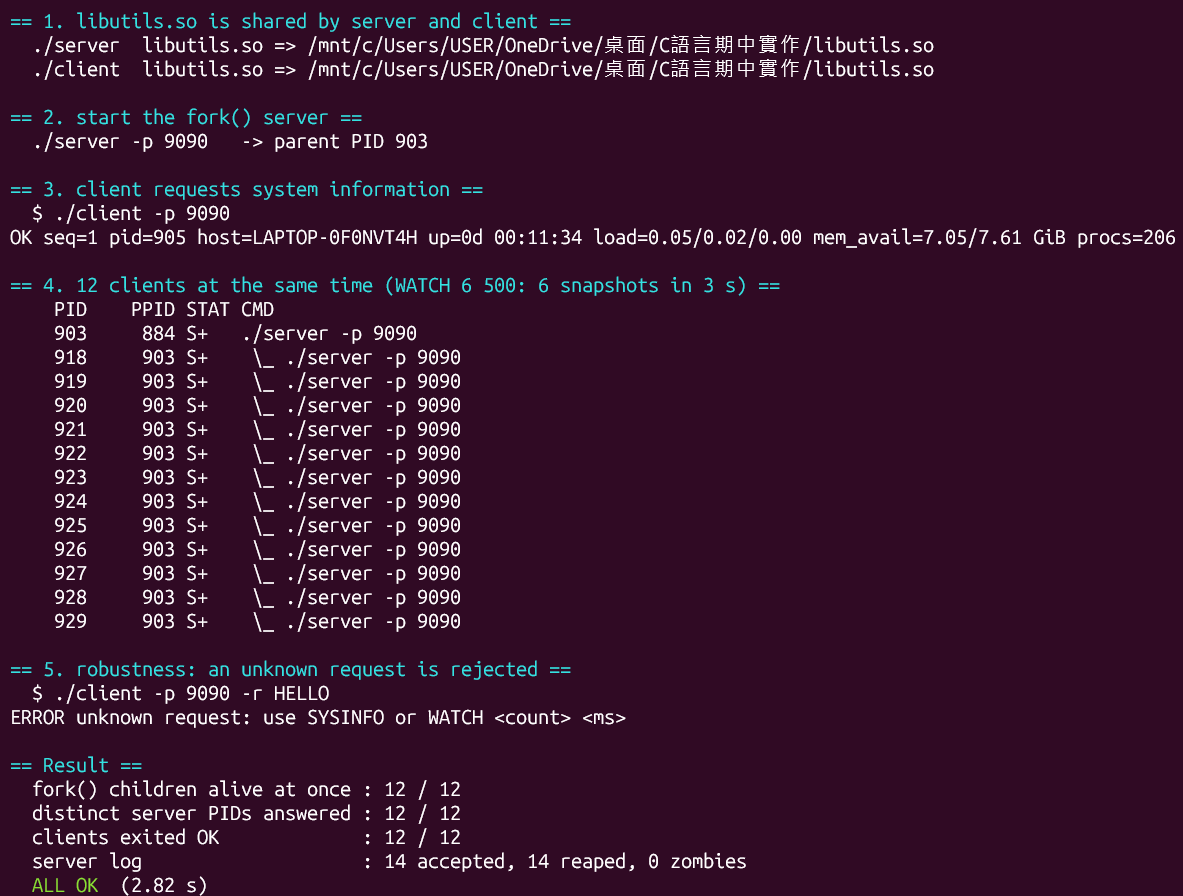
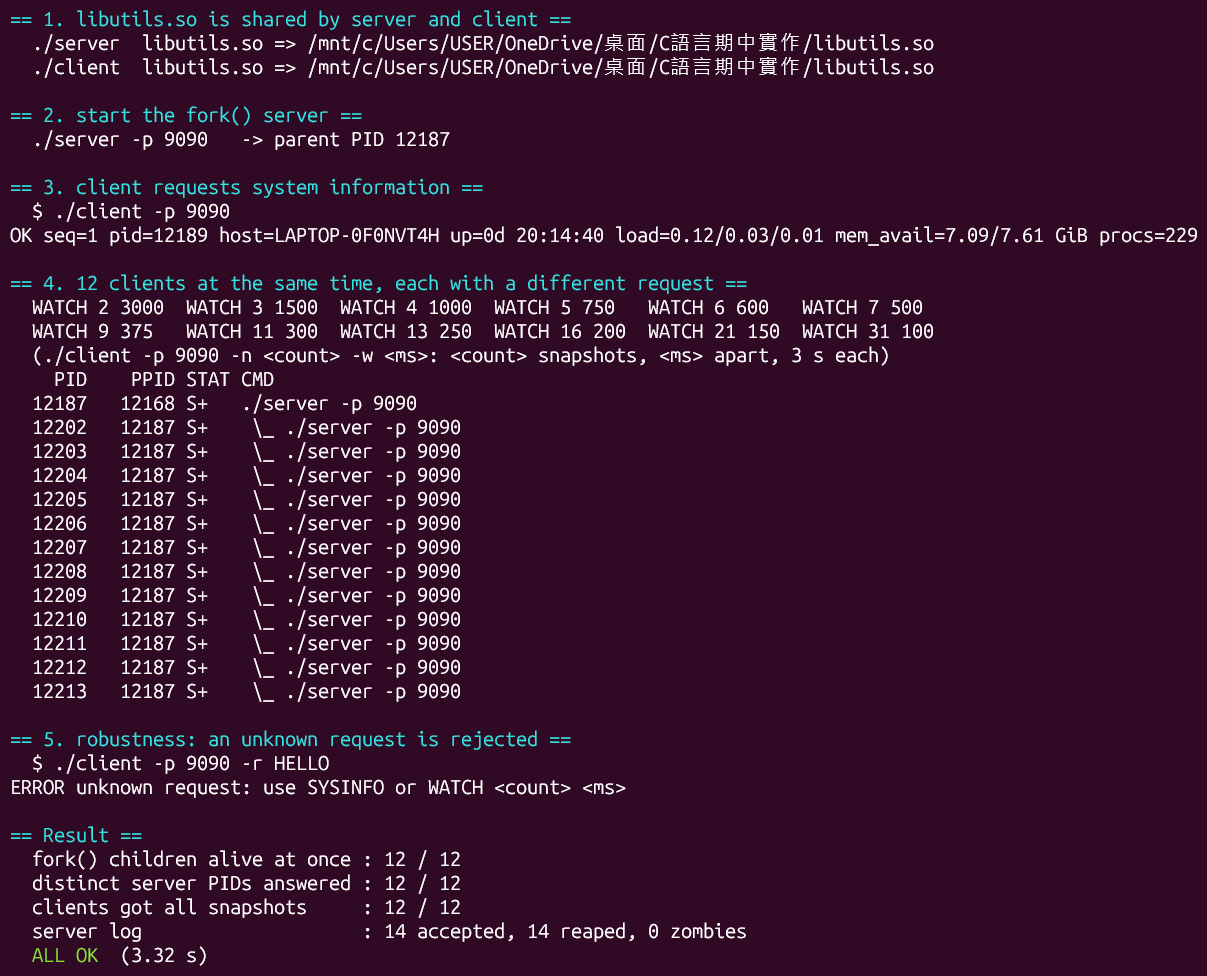
Give the 12 concurrent clients 12 different requests
test_concurrent and make demo now send a different WATCH request from
each client (WATCH 2 3000 ... WATCH 31 100, kept in testlib). Every one
lasts 3 s, so all 12 clients are still connected when ps runs. Each
client's snapshot count is checked against its own request, and the
test log lists the request every client sent and every child received.

Regenerate logs/test_concurrent.log, retake screenshot 02 and update
README and docs/screenshots.md to match.

diff --git a/tests/test_concurrent.c b/tests/test_concurrent.c
@@ -2,8 +2,9 @@
  * test_concurrent.c - proof that the fork() server serves 12 clients at once.
  *
  *   1. start ./server
- *   2. launch 12 ./client processes at the same moment; each asks for
- *      WATCH 6 500, so it stays connected for about 3 seconds
+ *   2. launch 12 ./client processes at the same moment, each with a
+ *      different request (WATCH 2 3000 ... WATCH 31 100, tl_watches in
+ *      testlib.c); every one stays connected for 3 seconds
  *   3. while all are connected: ps aux snapshot, process tree (PPID) and the
  *      established TCP connections
  *   4. cross-check: the server child PID in each client's replies must be one
@@ -22,8 +23,6 @@
 #include <string.h>
 
 #define MAX_CLIENTS 256
-#define SNAPSHOTS   "6"
-#define INTERVAL_MS "500"
 #define PS_ROW "^([^[:space:]]+[[:space:]]+){10}"
 
 static int run(int clients, const char *tmp)
@@ -42,8 +41,8 @@ static int run(int clients, const char *tmp)
     printf("date     : %s\n", tl_date());
     printf("kernel   : %s\n", tl_kernel());
     printf("compiler : %s\n", tl_compiler());
-    printf("test     : %d concurrent clients, each asks for WATCH %s %s (about 3 s)\n",
-           clients, SNAPSHOTS, INTERVAL_MS);
+    printf("test     : %d concurrent clients, each sends a different WATCH request (3 s each)\n",
+           clients);
 
     tl_heading("Build (make)");
     if (tl_run(NULL, CMD("make", "-s", "all")) != 0)
@@ -62,11 +61,17 @@ static int run(int clients, const char *tmp)
 
     tl_heading("Launch %d clients at the same moment", clients);
     for (i = 0; i < clients; i++) {
+        const struct tl_watch *w = &tl_watches[i % TL_NWATCH];
+
         pids[i] = tl_spawn(tl_fmt("%s/client_%0*d.txt", tmp, width, i + 1),
-                           CMD("./client", "-p", tl_port_str, "-n", SNAPSHOTS, "-w", INTERVAL_MS));
+                           CMD("./client", "-p", tl_port_str, "-n", w->count, "-w", w->ms));
     }
-    printf("$ ./client -p %d -n %s -w %s   x %d (background)\n",
-           tl_port, SNAPSHOTS, INTERVAL_MS, clients);
+    for (i = 0; i < clients; i++) {
+        const struct tl_watch *w = &tl_watches[i % TL_NWATCH];
+
+        printf("$ %-30s (client %0*d, background)\n",
+               tl_fmt("./client -p %d -n %s -w %s", tl_port, w->count, w->ms), width, i + 1);
+    }
     fputs("client PIDs:", stdout);
     for (i = 0; i < clients; i++)
         printf(" %d", (int)pids[i]);
@@ -94,14 +99,15 @@ static int run(int clients, const char *tmp)
     }
     tl_write(client_log, "", 0);
     for (i = 0; i < clients; i++) {
+        const struct tl_watch *w = &tl_watches[i % TL_NWATCH];
         const char *file = tl_fmt("%s/client_%0*d.txt", tmp, width, i + 1);
         char *text = tl_read(file);
         int lines = tl_count(text, "^OK seq=");
         char *pid = tl_match(text, "pid=[0-9]+");
 
-        printf("[client %0*d] %d snapshot(s), served by %s\n", width, i + 1, lines,
-               pid ? pid : "?");
-        if (lines == atoi(SNAPSHOTS))
+        printf("[client %0*d] %-13s -> %2d snapshot(s), served by %s\n", width, i + 1,
+               tl_fmt("WATCH %s %s", w->count, w->ms), lines, pid ? pid : "?");
+        if (lines == atoi(w->count))
             full++;
         tl_append_prefixed(file, tl_fmt("[client %0*d] ", width, i + 1), client_log);
     }
@@ -121,8 +127,8 @@ static int run(int clients, const char *tmp)
     reaped = tl_file_count(server_log, "reaped child");
     active_max = tl_match(tl_read(server_log), tl_fmt("accepted .*active=%d$", clients));
 
-    tl_heading("Server log (accept and reap)");
-    tl_print_lines(tl_grep(tl_read(server_log), "accepted|reaped", 0), "", 0);
+    tl_heading("Server log (accept, request and reap)");
+    tl_print_lines(tl_grep(tl_read(server_log), "accepted|snapshot\\(s\\)$|reaped", 0), "", 0);
     printf("after the clients left: %d child process(es), %d zombie(s)\n", left, zombies);
 
     tl_heading("Stop server (SIGTERM)");
@@ -137,8 +143,8 @@ static int run(int clients, const char *tmp)
               clients, clients + 1);
     tl_expect(established == clients, "%d established TCP connections at the same time", clients);
     tl_expect(active_max != NULL, "server log reaches active=%d", clients);
-    tl_expect(ok == clients && full == clients, "all %d clients got %s snapshots and exited 0",
-              clients, SNAPSHOTS);
+    tl_expect(ok == clients && full == clients,
+              "all %d clients got the number of snapshots they asked for and exited 0", clients);
     tl_expect(ndistinct == clients, "clients were answered by %d distinct server PIDs", clients);
     tl_expect(unknown == 0, "every answering PID is a child seen in the ps snapshot");
     tl_expect(zombies + left == 0, "no zombie or leftover children after the clients left");

diff --git a/tests/demo.c b/tests/demo.c
@@ -6,7 +6,8 @@
  *   1. both binaries are linked against libutils.so
  *   2. start the fork() server in the background
  *   3. one client requests system information (SYSINFO)
- *   4. CLIENTS clients connect at the same time -> CLIENTS fork()ed children
+ *   4. CLIENTS clients connect at the same time -> CLIENTS fork()ed children;
+ *      each client sends a different WATCH request (tl_watches in testlib.c)
  *   5. robustness: an unknown request is rejected with an ERROR line
  *   6. stop the server; every child was reaped (no zombies)
  *
@@ -20,6 +21,7 @@
 #include <unistd.h>
 
 #define MAX_CLIENTS 256
+#define PER_ROW     6           /* requests printed per line in step 4 */
 
 static const char *B = "";
 static const char *G = "";
@@ -68,19 +70,35 @@ static int run(void)
     printf("  $ ./client -p %d\n", tl_port);
     fputs(tl_capture_out(CMD("./client", "-p", tl_port_str)), stdout);
 
-    printf("\n%s== 4. %d clients at the same time (WATCH 6 500: 6 snapshots in 3 s) ==%s\n",
+    printf("\n%s== 4. %d clients at the same time, each with a different request ==%s\n",
            B, clients, N);
     for (i = 0; i < clients; i++) {
+        const struct tl_watch *w = &tl_watches[i % TL_NWATCH];
+
         pids[i] = tl_spawn(tl_fmt("%s/client_%d", g_tmp, i + 1),
-                           CMD("./client", "-p", tl_port_str, "-n", "6", "-w", "500"));
+                           CMD("./client", "-p", tl_port_str, "-n", w->count, "-w", w->ms));
     }
+    for (i = 0; i < clients; i++) {
+        const struct tl_watch *w = &tl_watches[i % TL_NWATCH];
+
+        printf("%s%-14s%s", i % PER_ROW ? "" : "  ", tl_fmt("WATCH %s %s", w->count, w->ms),
+               i % PER_ROW == PER_ROW - 1 || i == clients - 1 ? "\n" : "");
+    }
+    printf("  (./client -p %d -n <count> -w <ms>: <count> snapshots, <ms> apart, 3 s each)\n",
+           tl_port);
     for (i = 0; i < 100 && tl_child_count() < clients; i++)
         tl_sleep(0.02);
     tl_run(NULL, CMD("ps", "--forest", "-o", "pid,ppid,stat,cmd", "-p", server_pid,
                      "--ppid", server_pid));
     nchild = tl_child_count();
     for (i = 0; i < clients; i++) {
-        if (tl_wait(pids[i]) == 0)
+        char *text;
+
+        if (tl_wait(pids[i]) != 0)
+            continue;
+        /* OK only if the client got as many snapshots as it asked for */
+        text = tl_read(tl_fmt("%s/client_%d", g_tmp, i + 1));
+        if (tl_count(text, "^OK seq=") == atoi(tl_watches[i % TL_NWATCH].count))
             ok++;
     }
     for (i = 0; i < clients; i++)
@@ -101,7 +119,7 @@ static int run(void)
     step("Result");
     printf("  fork() children alive at once : %d / %d\n", nchild, clients);
     printf("  distinct server PIDs answered : %d / %d\n", ndistinct, clients);
-    printf("  clients exited OK             : %d / %d\n", ok, clients);
+    printf("  clients got all snapshots     : %d / %d\n", ok, clients);
     printf("  server log                    : %d accepted, %d reaped, %d zombies\n",
            accepted, reaped, zombies);
     if (nchild == clients && ndistinct == clients && ok == clients && zombies == 0 &&

diff --git a/tests/testlib.h b/tests/testlib.h
@@ -58,6 +58,18 @@ char *tl_capture_out(const char *const argv[]);     /* stdout only */
 int tl_start_server(const char *dir, const char *log, const char *const flags[]);
 void tl_stop_server(void);
 
+/*
+ * The 12 different requests of make demo and test_concurrent: client i sends
+ * WATCH <count> <ms> from tl_watches[i % TL_NWATCH]. Every one lasts
+ * (count - 1) x ms = 3 s, so all clients are connected at the same time.
+ */
+#define TL_NWATCH 12
+struct tl_watch {
+    const char *count;          /* ./client -n: number of snapshots */
+    const char *ms;             /* ./client -w: milliseconds between them */
+};
+extern const struct tl_watch tl_watches[TL_NWATCH];
+
 /* /proc */
 int tl_port_in_use(int port);
 int tl_established(int port);

diff --git a/tests/testlib.c b/tests/testlib.c
@@ -30,6 +30,12 @@ int tl_port;
 char tl_port_str[16];
 pid_t tl_server_pid;
 
+const struct tl_watch tl_watches[TL_NWATCH] = {
+    { "2",  "3000" }, { "3",  "1500" }, { "4",  "1000" }, { "5",  "750" },
+    { "6",  "600"  }, { "7",  "500"  }, { "9",  "375"  }, { "11", "300" },
+    { "13", "250"  }, { "16", "200"  }, { "21", "150"  }, { "31", "100" },
+};
+
 static pid_t g_tee_pid;
 
 void tl_die(const char *fmt, ...)

diff --git a/README.md b/README.md
@@ -24,7 +24,7 @@ Client 連到 server，用一行文字請求查詢主機的即時系統資訊：
 | 期中規定 | 本專案的做法 |
 |---|---|
 | Server 用 `fork()` 處理連線，不可用 thread | parent 只負責 `accept()`，每個連線 fork 一個 child；整個專案沒有使用 thread |
-| 至少同時處理 10 個 client，並提供執行期證明 | `tests/test_concurrent.c` 讓 12 個 client 同時連線，用 `ps aux` 和 `ps --forest` 證明 12 個子進程同時存在 |
+| 至少同時處理 10 個 client，並提供執行期證明 | `tests/test_concurrent.c` 讓 12 個 client 同時連線、各送出不同的 `WATCH` 請求，用 `ps aux` 和 `ps --forest` 證明 12 個子進程同時存在 |
 | 封包擷取與分析 | `tests/test_capture.c` 用 tcpdump 抓 loopback，讀回 pcap 檔，逐包列出三向交握、請求、回應、FIN，並把請求封包拆成 Ethernet、IPv4、TCP 標頭逐欄說明 |
 | 雙層 Debug | 編譯期 `-DENABLE_DEBUG`（關閉時巨集展開成 `((void)0)`），加上執行期 `-d 0/1/2` |
 | 共用函式封裝成 `.so`，兩邊都連結 | logger、`write_all`／`read_line`、系統資訊擷取都在 `libutils.so`，server 和 client 都以 `-lutils` 動態連結 |
@@ -105,7 +105,7 @@ gcc -Wall -Wextra -pedantic -std=gnu11 -O2 -g -DENABLE_DEBUG -o client client.c 
 |---|---|
 | `make`、`make all` | debug 版（`DEBUG=1`，預設） |
 | `make release` | release 版（`DEBUG=0`，`LOG_DEBUG` 完全編譯掉） |
-| `make demo` | 一個指令的現場展示（約 3 秒）：`.so` 連結、查詢、12 個併發子進程、拒絕錯誤請求、沒有殭屍進程 |
+| `make demo` | 一個指令的現場展示（約 3 秒）：`.so` 連結、查詢、12 個 client 各送出不同的請求（12 個併發子進程）、拒絕錯誤請求、沒有殭屍進程 |
 | `make test` | 依序執行 `test_concurrent`、`test_robustness`、`test_debug` |
 | `make test-concurrent`、`make test-robust`、`make test-debug` | 個別執行一支測試 |
 | `make test-capture` | tcpdump 抓包測試，需要 root 或 sudo |
@@ -274,26 +274,44 @@ DEBUG     0000  53 59 53 49 4e 46 4f 0a                           |SYSINFO.|
 
 | 測試程式 | 證明內容 | 執行方式 | 結果 |
 |---|---|---|---|
-| `tests/test_concurrent.c` | 12 個 client 同時連線，每條連線由不同的子進程處理 | `make test-concurrent` | 9/9 PASS |
+| `tests/test_concurrent.c` | 12 個 client 同時連線、各送出不同的請求，每條連線由不同的子進程處理 | `make test-concurrent` | 9/9 PASS |
 | `tests/test_robustness.c` | 5 個穩健機制的 With/Without 對照 | `make test-robust` | 11/11 PASS |
 | `tests/test_debug.c` | 編譯期與執行期的雙層 Debug | `make test-debug` | 15/15 PASS |
 | `tests/test_capture.c` | tcpdump 抓包、三向交握、標頭欄位 | `make test-capture`（需要 root 或 sudo） | 10/10 PASS |
 
 ### 6.1 test_concurrent：12 個 client 併發
 
-12 個 client 同時送出 `WATCH 6 500`，每條連線約維持 3 秒。測試程式在這段時間內拍下 `ps aux` 和進程樹：
+12 個 client 同時連線，每個送出不同的請求，從 `WATCH 2 3000` 到 `WATCH 31 100`，筆數和間隔都不一樣。每個請求的「(筆數 − 1) × 間隔」都是 3000 ms，所以每條連線都維持 3 秒。測試程式在這段時間內拍下 `ps aux` 和進程樹：
 
 ```text
     PID    PPID STAT     ELAPSED CMD
-    504     484 S+         00:01 ./server -p 9090
-    517     504 S+         00:01  \_ ./server -p 9090
-    518     504 S+         00:01  \_ ./server -p 9090
-    ...                              (共 12 個 child，PPID 都是 504)
+  12061   12041 S+         00:01 ./server -p 9090
+  12074   12061 S+         00:01  \_ ./server -p 9090
+  12075   12061 S+         00:01  \_ ./server -p 9090
+    ...                              (共 12 個 child，PPID 都是 12061)
 server children alive           : 12
 established TCP conns on :9090  : 12
 ```
 
+client 結束後，列出每個 client 的請求、收到幾筆、由哪個 child 回應：
+
+```text
+[client 01] WATCH 2 3000  ->  2 snapshot(s), served by pid=12077
+[client 02] WATCH 3 1500  ->  3 snapshot(s), served by pid=12080
+[client 03] WATCH 4 1000  ->  4 snapshot(s), served by pid=12081
+[client 04] WATCH 5 750   ->  5 snapshot(s), served by pid=12082
+[client 05] WATCH 6 600   ->  6 snapshot(s), served by pid=12078
+[client 06] WATCH 7 500   ->  7 snapshot(s), served by pid=12079
+[client 07] WATCH 9 375   ->  9 snapshot(s), served by pid=12076
+[client 08] WATCH 11 300  -> 11 snapshot(s), served by pid=12074
+[client 09] WATCH 13 250  -> 13 snapshot(s), served by pid=12075
+[client 10] WATCH 16 200  -> 16 snapshot(s), served by pid=12083
+[client 11] WATCH 21 150  -> 21 snapshot(s), served by pid=12084
+[client 12] WATCH 31 100  -> 31 snapshot(s), served by pid=12085
+```
+
 - **ps 證明：** 共 13 個 `./server` 進程（1 個 parent、12 個 child），12 條 ESTABLISHED 連線，server log 出現 `active=12`。
+- **12 種請求同時處理：** 每個 client 收到的筆數都和自己的請求相符（2～31 筆，共 128 筆）；server log 記錄每個 child 收到的請求。
 - **PID 交叉比對：** 12 個 client 收到的 `pid=` 互不相同，而且都出現在 ps 快照中。
 - **結束後：** 0 個殭屍、0 個殘留子進程；server log 記錄 12 筆 accepted、12 筆 reaped。
 

diff --git a/docs/screenshots.md b/docs/screenshots.md
@@ -20,7 +20,7 @@ make clean && make && ldd ./server ./client | grep -E '^\./|libutils'
 make demo
 ```
 
-12 個 child 同時存在（PPID 都是 parent），12 個 client 由 12 個不同的 PID 服務，錯誤的請求收到 `ERROR`，結束後沒有殭屍程序。
+12 個 client 各送出不同的請求，從 `WATCH 2 3000` 到 `WATCH 31 100`，每條連線都維持 3 秒。12 個 child 同時存在（PPID 都是 parent），12 個 client 由 12 個不同的 PID 服務，每個都收到自己要求的筆數；錯誤的請求收到 `ERROR`，結束後沒有殭屍程序。
 
 ![make demo 結果](screenshots/02_concurrent_demo.png)
 
